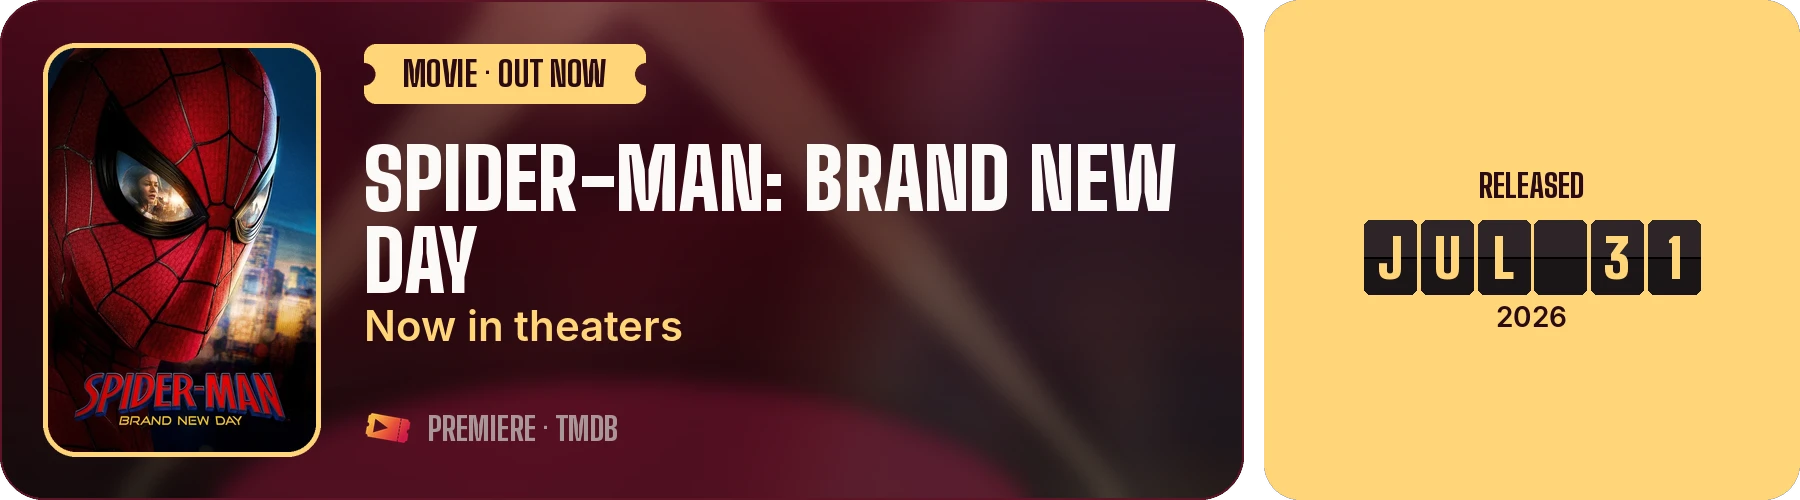
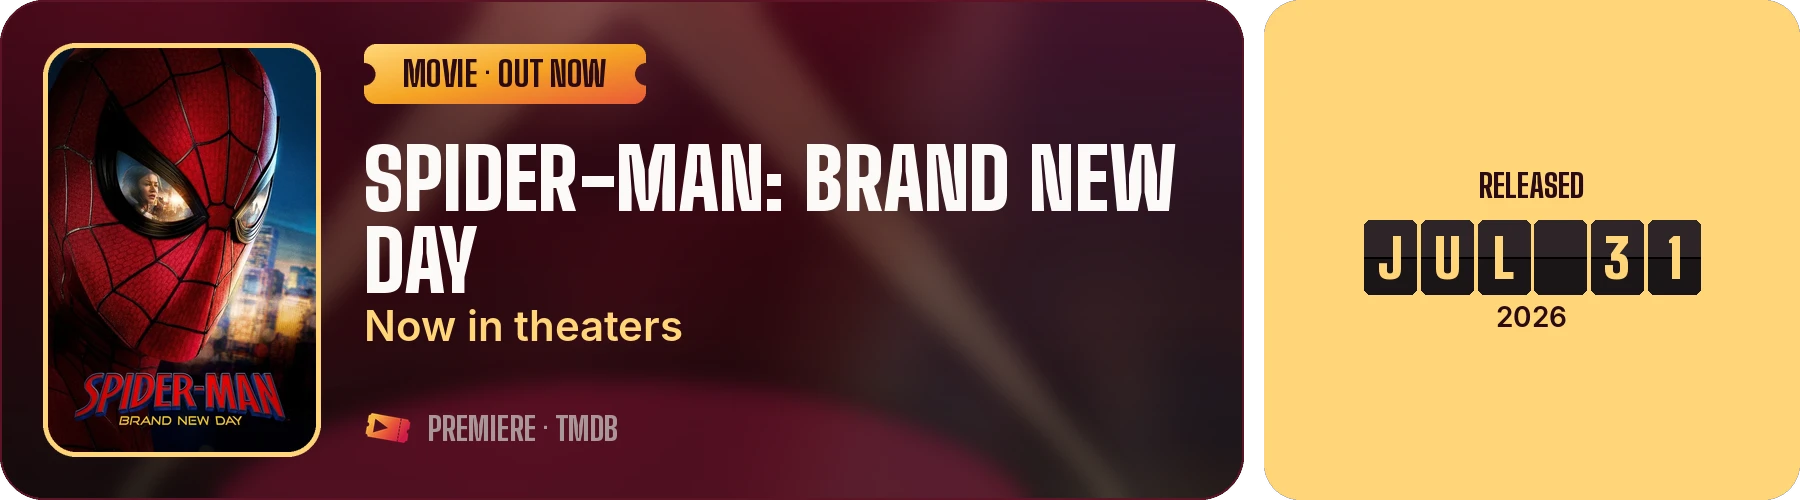
Reserve the gradient for calls to action, fix card flicker, add Steel Ball Run countdown
- Gradient now only on the nav CTA, glow buttons and closing invite
- Drop the film strip rotation that made the example cards shimmer
- Episode 2 on the Steel Ball Run card counts down from 5 to OUT NOW when scrolled into view
- Re-render example cards with the updated tag styling

Claude-Session: https://claude.ai/code/session_011wgfKg9ShNBLNE5rtM9Seq

Changed region(s): [[0.1867, 0.09, 0.3733, 0.21]]

diff --git a/style.css b/style.css
@@ -76,7 +76,7 @@ code { font: 600 0.95em/1 var(--body); color: var(--champagne); }
 .site-nav a.nav-cta {
   padding: 9px 16px;
   border-radius: 999px;
-  background: var(--champagne);
+  background: var(--ticket);
   color: var(--ink);
   font-weight: 700;
   box-shadow: 0 6px 24px -8px rgba(255, 214, 120, 0.6);
@@ -318,7 +318,7 @@ section { padding-block: clamp(48px, 8vw, 96px); }
 .pitch p { margin: 0; max-width: 58ch; font-size: 1.15rem; color: var(--paper); }
 .btn-glow {
   flex: none;
-  background: var(--champagne);
+  background: var(--ticket);
   color: var(--ink);
   padding-inline: 28px;
   box-shadow: 0 10px 40px -12px rgba(255, 214, 120, 0.7);
@@ -360,7 +360,7 @@ section { padding-block: clamp(48px, 8vw, 96px); }
 .closing h2 { margin: 0 0 10px; font: 900 clamp(2.4rem, 5.4vw, 4.2rem)/0.9 var(--display); text-transform: uppercase; }
 .closing p { margin: 0; color: #f0d9dc; font-size: 1.12rem; }
 .closing-actions { display: grid; gap: 12px; }
-.closing .btn-primary { background: var(--champagne); color: var(--ink); }
+.closing .btn-primary { background: var(--ticket); color: var(--ink); }
 .closing .btn-secondary { background: rgba(255, 243, 228, 0.12); color: var(--paper); box-shadow: inset 0 0 0 2px rgba(255, 243, 228, 0.7); }
 .closing .stub-link { color: var(--champagne); }
 
@@ -382,7 +382,6 @@ section { padding-block: clamp(48px, 8vw, 96px); }
   background: #0b0809;
   border-radius: 10px;
   box-shadow: 0 30px 80px -40px rgba(0, 0, 0, 0.9), 0 0 0 1px #2a2022;
-  transform: rotate(0.6deg);
 }
 .filmstrip::before, .filmstrip::after {
   content: "";
@@ -397,6 +396,30 @@ section { padding-block: clamp(48px, 8vw, 96px); }
 .frame { margin: 0; padding-block: 14px; border-top: 2px solid #241b1d; }
 .frame:first-child { border-top: 0; }
 .frame img { width: 100%; border-radius: 6px; }
+
+/* Flip tiles laid over the episode 2 box of the Steel Ball Run card. Sizes are
+   percentages of the card image (900 x 250 design units), so they track it at
+   any width. */
+.countdown-card { position: relative; display: block; container-type: inline-size; }
+.countdown {
+  position: absolute;
+  left: 74.268%;
+  top: 66.8%;
+  width: 21.687%;
+  height: 14.703%;
+  display: grid;
+  grid-template-columns: repeat(7, 1fr);
+  gap: 0.259cqw;
+  pointer-events: none;
+}
+.countdown .flap {
+  width: auto;
+  height: auto;
+  border-radius: 0.333cqw;
+  background: linear-gradient(180deg, #2e2527 0 50%, #1b1516 50% 100%);
+  color: #ffd678;
+  font: 900 2.991cqw/1 var(--display);
+}
 .frame figcaption { margin-top: 10px; color: var(--paper-dim); font-size: 0.95rem; }
 .frame figcaption b { color: var(--paper); font-weight: 600; }
 
@@ -576,7 +599,7 @@ section { padding-block: clamp(48px, 8vw, 96px); }
   .pitch { flex-direction: column; align-items: stretch; }
   .promises > div { grid-template-columns: 1fr; }
   .closing { grid-template-columns: 1fr; }
-  .filmstrip { padding: 16px 40px; transform: none; }
+  .filmstrip { padding: 16px 40px; }
   .filmstrip::before { left: 9px; }
   .filmstrip::after { right: 9px; }
   .letterboard li { grid-template-columns: 1fr; line-height: 30px; min-height: 0; padding-block: 3px; }

diff --git a/index.html b/index.html
@@ -109,7 +109,7 @@
           <figcaption><b>Launch day.</b> A game unlocks at midnight on release day, in your timezone, and you hear about it right then.</figcaption>
         </figure>
         <figure class="frame">
-          <a href="assets/card-anime.webp"><img src="assets/card-anime.webp" width="1800" height="500" loading="lazy" alt="Alert card: episode 1 of Steel Ball Run: JoJo's Bizarre Adventure has aired, with a countdown to episode 2."></a>
+          <a class="countdown-card" href="assets/card-anime.webp"><img src="assets/card-anime.webp" width="1800" height="500" loading="lazy" alt="Alert card: episode 1 of Steel Ball Run: JoJo's Bizarre Adventure has aired, and episode 2 is out now."><span class="countdown" aria-hidden="true" hidden></span></a>
           <figcaption><b>Every episode.</b> New anime episodes the minute they air, with a countdown to the next one.</figcaption>
         </figure>
         <figure class="frame">
@@ -294,6 +294,24 @@
           show(turn % ROWS, SHOWS[next++ % SHOWS.length], 0);
           turn++;
         }, 3200);
+      }
+
+      // ── Steel Ball Run card: episode 2 counts down, then it's out ──────
+      // Flip tiles laid exactly over the tiles in the card image. Without JS
+      // (or with reduced motion) the image itself already reads OUT NOW.
+      var cd = document.querySelector(".countdown");
+      if (cd && !reduce && "IntersectionObserver" in window) {
+        var cdCells = makeCells(cd, 7);
+        " IN 5S ".split("").forEach(function (ch, i) { cdCells[i].textContent = ch; });
+        cd.hidden = false;
+        var watch = new IntersectionObserver(function (entries) {
+          if (!entries[0].isIntersecting) return;
+          watch.disconnect();
+          [" IN 4S ", " IN 3S ", " IN 2S ", " IN 1S ", "OUT NOW"].forEach(function (text, i) {
+            setTimeout(function () { flipTo(cdCells, text); }, 1000 * (i + 1));
+          });
+        }, { threshold: 0.75 });
+        watch.observe(cd.closest("figure"));
       }
 
       // ── Live numbers published by the bot ──────────────────────────────
